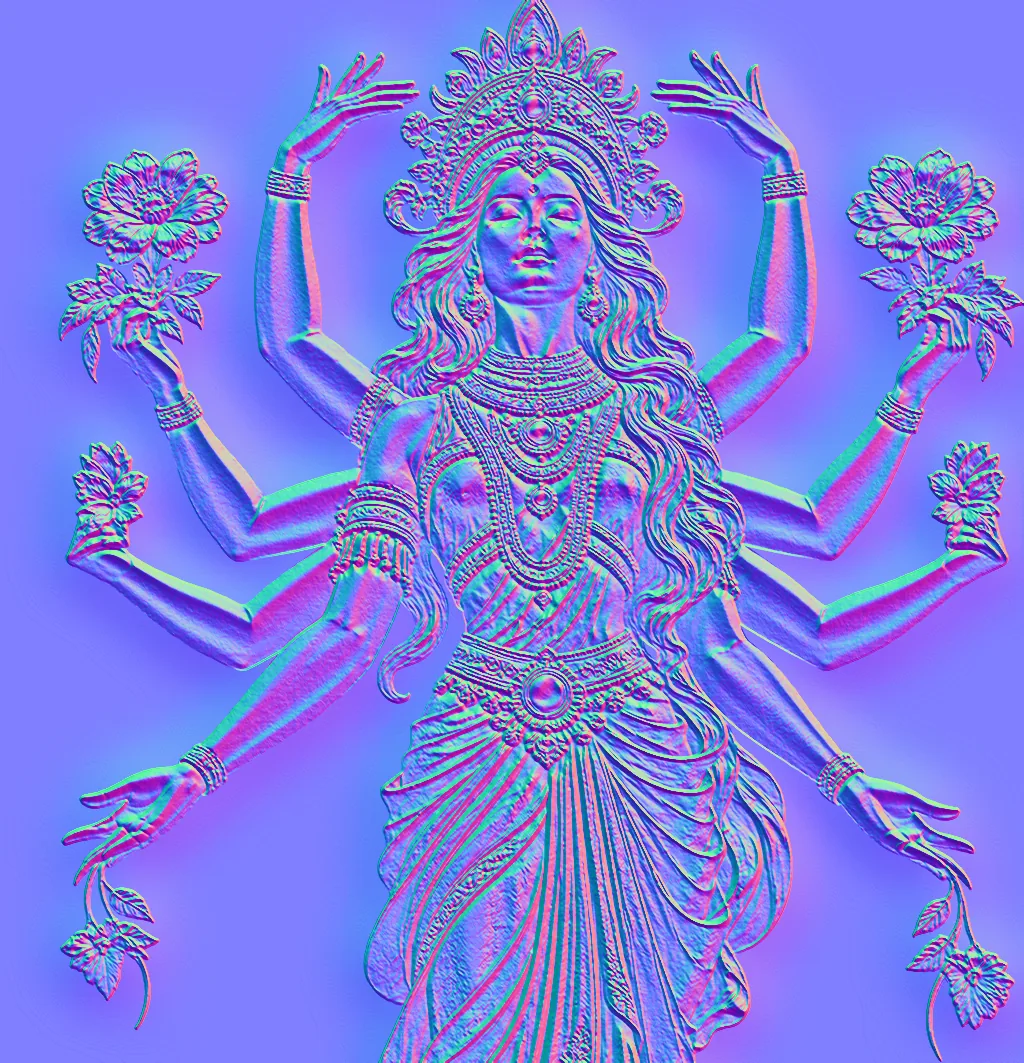
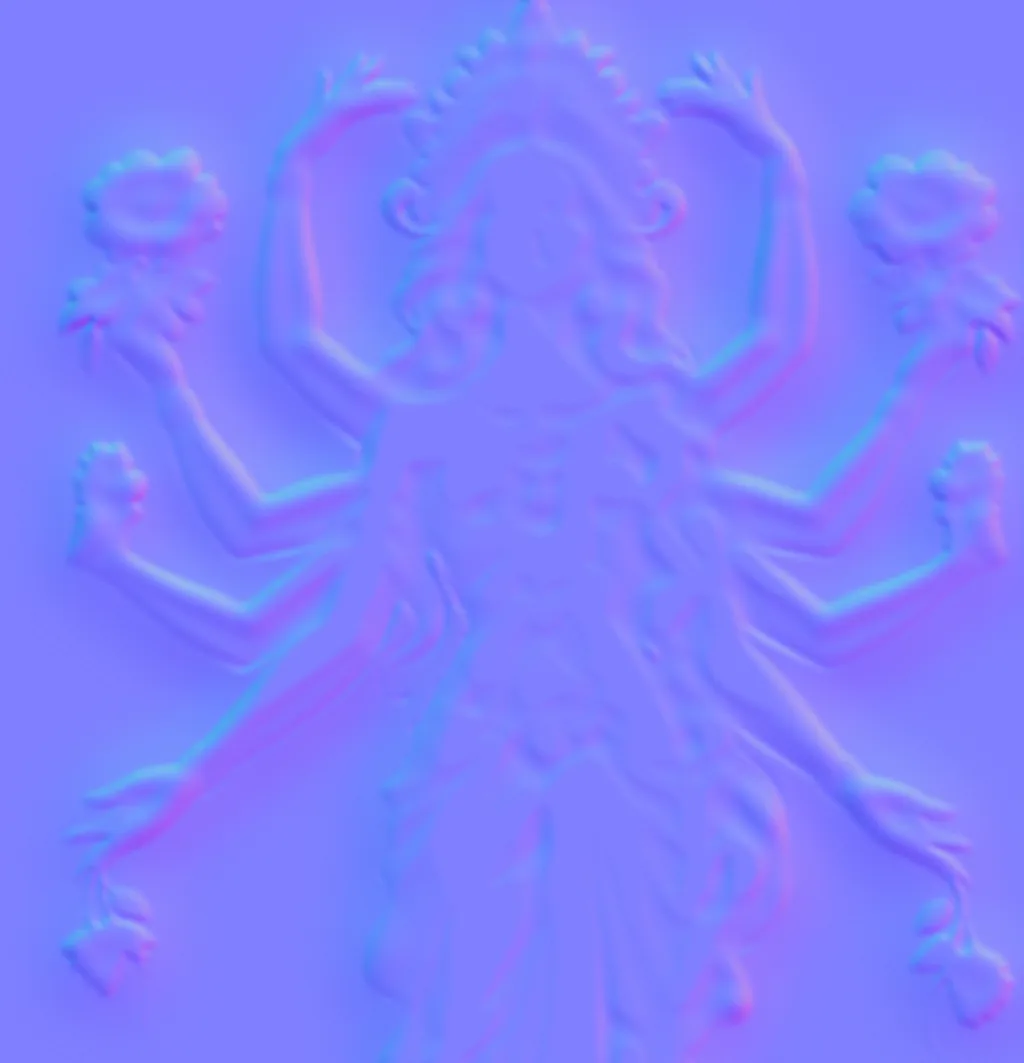
Soften the goddess lighting
Keep the sculpture's own studio shading and let the pointer move a wide,
soft pool of light over her large forms only. No raking light, glints,
deep shadows or red outline; the ring of fire is quieter.

Claude-Session: https://claude.ai/code/session_011JZeWZSKW6nDHaFqzWh2uE

diff --git a/src/js/hero.js b/src/js/hero.js
@@ -40,25 +40,25 @@ const figureFrag = /* glsl */ `
 
     vec3 n = normalize(texture2D(uNormal, vUv).xyz * 2.0 - 1.0);
     float h = texture2D(uDepth, vUv).r;
-    float alb = pow(c.r, 1.15);
+    float alb = pow(c.r, 1.05);
     vec3 L = normalize(uLight);
     vec3 V = vec3(0.0, 0.0, 1.0);
 
-    // warm gallery key light raking across the carving
-    float diff = max(dot(n, L), 0.0);
-    float spec = pow(max(dot(n, normalize(L + V)), 0.0), 80.0) * smoothstep(0.55, 0.9, c.r);
-    vec3 col = vec3(1.0, 0.95, 0.88) * alb * (0.03 + 1.35 * pow(diff, 1.25)) * uLightAmt;
-    col += vec3(1.0, 0.93, 0.82) * spec * 0.75 * uLightAmt;
+    // soft wrapped studio light over the large forms; the sculpture keeps its own shading
+    float wrap = (max(dot(n, L), 0.0) + 0.35) / 1.35;
+    float sheen = pow(max(dot(n, normalize(L + V)), 0.0), 12.0) * 0.12;
+    vec3 col = vec3(1.0, 0.975, 0.95) * alb * (0.62 + 0.5 * wrap);
+    col += vec3(1.0, 0.97, 0.93) * sheen * alb;
 
-    // a faint cool fill so the shadows keep their form
-    col += vec3(0.62, 0.68, 0.8) * alb * 0.07 * (0.5 + 0.5 * n.y) * uLightAmt;
+    // a wide pool of light that follows the pointer and falls off gently
+    vec2 lp = vec2(0.5, 0.55) + L.xy * vec2(0.32, 0.3);
+    vec2 dp = (vUv - lp) * vec2(1.0, 0.85);
+    float pool = exp(-dot(dp, dp) * 2.4);
+    col *= mix(0.62, 1.04, pool);
 
-    // ember light from the ring of fire behind her, only along the outline
-    float rim = texture2D(uDepth, vUv).g;
-    col += uEmber * rim * (0.3 + alb) * 0.8 * uEmberAmt;
-
-    // depth: recesses fall into shadow
-    col *= mix(0.55, 1.0, h);
+    col *= mix(0.86, 1.0, h);
+    col *= uLightAmt;
+    col += uEmber * texture2D(uDepth, vUv).g * alb * 0.12 * uEmberAmt;
 
     gl_FragColor = vec4(col, a);
     #include <colorspace_fragment>
@@ -100,7 +100,7 @@ const haloFrag = /* glsl */ `
 
     float fadeBottom = smoothstep(0.02, 0.2, t) * smoothstep(0.98, 0.8, t);
     float shimmer = 0.85 + 0.15 * noise(t * 30.0 - uTime * 0.8);
-    float v = (line * 1.1 + inner + flame * 0.9 + glow) * drawn * fadeBottom * shimmer;
+    float v = (line * 0.75 + inner * 0.6 + flame * 0.55 + glow * 0.8) * drawn * fadeBottom * shimmer;
 
     vec3 hot = vec3(1.0, 0.72, 0.5);
     vec3 col = mix(uEmber, hot, clamp(line * 0.6 + flame * 0.5, 0.0, 1.0));
@@ -219,7 +219,7 @@ export function mountGoddess(stage) {
       cur.lerp(aim, k);
       const introY = -1.1 + 1.55 * lightIn;     // rises from beneath her
       const ly = lightIn < 1 ? Math.min(introY, cur.y) : cur.y;
-      u.uLight.value.set(cur.x * 1.15, ly, 0.42);
+      u.uLight.value.set(cur.x * 0.9, ly * 0.85, 0.7);
 
       // a sculpture on a slow turntable of breath: barely there
       root.rotation.y = reduce ? 0 : cur.x * 0.06 + Math.sin(t * 0.25) * 0.012;

diff --git a/tools/goddess_maps.py b/tools/goddess_maps.py
@@ -48,17 +48,14 @@ poster = np.dstack([lum * mask * 0.82 * 255] * 3).astype(np.uint8)
 Image.fromarray(poster, "RGB").save(out / "poster.webp", quality=84, method=6)
 print("maps", W, H)
 
-# Normal map: large-scale body volume plus carved detail taken from the sculpture's shading,
-# so a moving light catches the crown, jewellery, hair and drapery.
+# Normal map: only the large, soft forms (body, limbs, drapery folds), so a moving light
+# glides over her like studio light instead of picking out every carved line.
 L = Image.fromarray((lum * 255).astype(np.uint8))
-fine = (lum - blur(L, 1.2)) * mask
-mid = (blur(L, 1.2) - blur(L, 6)) * mask
-coarse = (blur(L, 6) - blur(L, 22)) * mask
-body = blur(mimg, 26)
-height = blur(Image.fromarray(np.clip(body * 255, 0, 255).astype(np.uint8)), 2) * 1.0 + coarse * 1.8 + mid * 1.6 + fine * 0.5
-gy, gx = np.gradient(height)
-strength = 22.0
-nx, ny, nz = -gx * strength, gy * strength, np.ones_like(height)
+soft = blur(mimg, 30) + (blur(L, 8) - blur(L, 30)) * mask * 0.9
+soft = blur(Image.fromarray((np.clip(soft, 0, 1) * 255).astype(np.uint8)), 3)
+gy, gx = np.gradient(soft)
+strength = 14.0
+nx, ny, nz = -gx * strength, gy * strength, np.ones_like(soft)
 ln = np.sqrt(nx ** 2 + ny ** 2 + nz ** 2)
 normal = np.dstack([nx / ln, ny / ln, nz / ln])
 Image.fromarray(((normal * 0.5 + 0.5) * 255).astype(np.uint8), "RGB").save(out / "normal.webp", quality=82, method=6)
